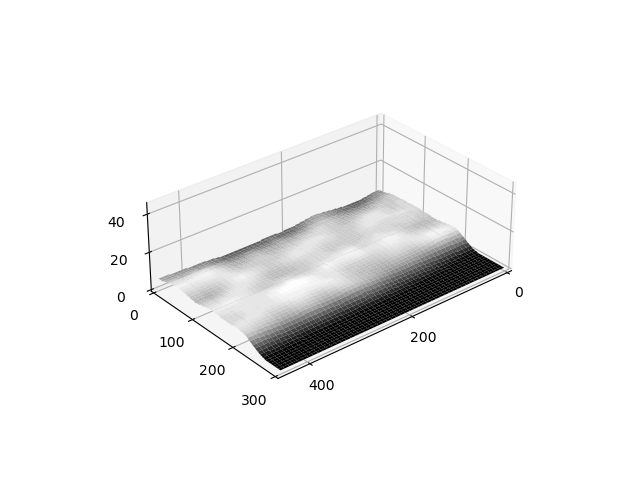
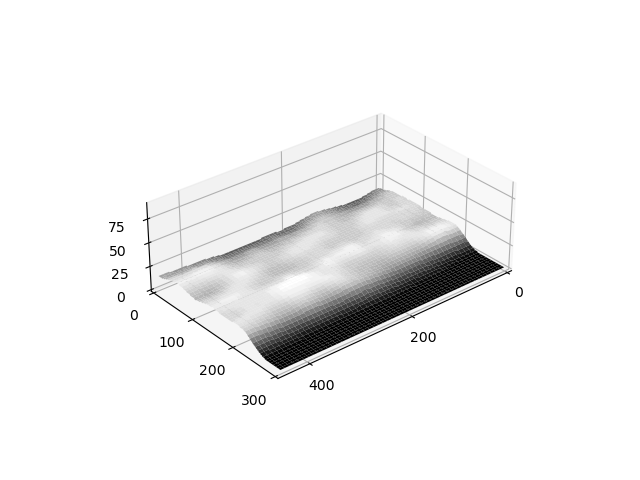
updated slopes

diff --git a/slope_test.py b/slope_test.py
@@ -46,8 +46,7 @@ def convolve(image, kernel, scale):
 
             # slope = int((slope1+slope3)/2)
             slope = int((slope1+slope2+slope3+slope4)/4)
-            image_decreased_2[(y-pad)//stride-1, (x-pad)//stride - 1] = slope + 2
-
+            image_decreased_2[(y-pad)//stride-1, (x-pad)//stride - 1] = slope
             # image_decreased_2[y//2-pad,x//2-pad] = slope
             # image_decreased_2[int((y-pad)//2-pad//2),int((x-pad)//2-pad//2)] = slope
 
@@ -94,13 +93,13 @@ def correct_image(blur, slope_range):
     height, width = blur[slope_range[0]:slope_range[1], :].shape  # y, x
     blur = blur[slope_range[0]:slope_range[1], :]
 
-    # # 10 height
-    # for x in range(height):
-    #     for y in range(width):
-    #         blur[x][y] = blur[x][y] - int(25 - x * 25/576)
-    #         if (blur[x][y] > 150):
-    #             blur[x][y] = 0
-    #         print(blur[x][y])
+    # 10 height
+    for x in range(height):
+        for y in range(width):
+            blur[x][y] = blur[x][y] - int(35 - x * 35/576)
+            if (blur[x][y] > 150):
+                blur[x][y] = 0
+            print(blur[x][y])
             
     # # 20, 30 height
     # for x in range(height):
@@ -138,12 +137,12 @@ def estimate_slope(z):
 
 def main():
 
-    # vor_image_gray = cv2.imread('images_10/voro_lidar_img_2023_09_16_06_41_42_01800.jpg', 0).astype(np.uint8)   # 10 deg
-    # slope_range = (50, 230)   # 10 deg
+    vor_image_gray = cv2.imread('images_10/voro_lidar_img_2023_09_16_06_41_42_01800.jpg', 0).astype(np.uint8)   # 10 deg
+    slope_range = (50, 230)   # 10 deg
     # vor_image_gray = cv2.imread('images_20/voro_lidar_img_2023_09_16_06_54_29_02000.jpg', 0).astype(np.uint8)   # 20 deg
     # slope_range = (0, 200)   # 20 deg
-    vor_image_gray = cv2.imread('images_30/voro_lidar_img_2023_09_16_07_04_35_02300.jpg', 0).astype(np.uint8)   # 30 deg
-    slope_range = (50, 200)   # 30 deg
+    # vor_image_gray = cv2.imread('images_30/voro_lidar_img_2023_09_16_07_04_35_02300.jpg', 0).astype(np.uint8)   # 30 deg
+    # slope_range = (50, 200)   # 30 deg
     # vor_image_gray = vor_image_gray[0:400][:]
     # vor_image_gray = vor_image_gray[0:400, 0:400]
     vor_image_gray = vor_image_gray[0:300, 0:450]
@@ -182,8 +181,8 @@ def main():
     # np.savetxt('slope.txt', blur[1][y], fmt='%d', delimiter='/t')
     # z = cv2.GaussianBlur(vor_image_gray,(45,45),0)
 
-    ax.plot_surface(x, y, z / 2.5 / 1, cmap='gray')  # height
-    # ax.plot_surface(x, y, z, cmap='gray')  # slope
+    # ax.plot_surface(x, y, z / 2.5 / 1, cmap='gray')  # height
+    ax.plot_surface(x, y, z, cmap='gray')  # slope
     # ax.set_xlabel('X Label')
     # ax.set_ylabel('Y Label')
     # ax.set_zlabel('Slope')
@@ -193,7 +192,7 @@ def main():
     ax.set_xlim(0, img_w / 1)
     ax.set_ylim(0, img_h / 1)
     # ax.set_zlim(0, 90 / 1)  # height
-    ax.set_zlim(0, 90 / 2)  # slope
+    ax.set_zlim(0, 90)  # slope
     plt.grid(True, linestyle='--', alpha=0.7)
     
     # plt.tick_params(axis='both', labelsize=20)
